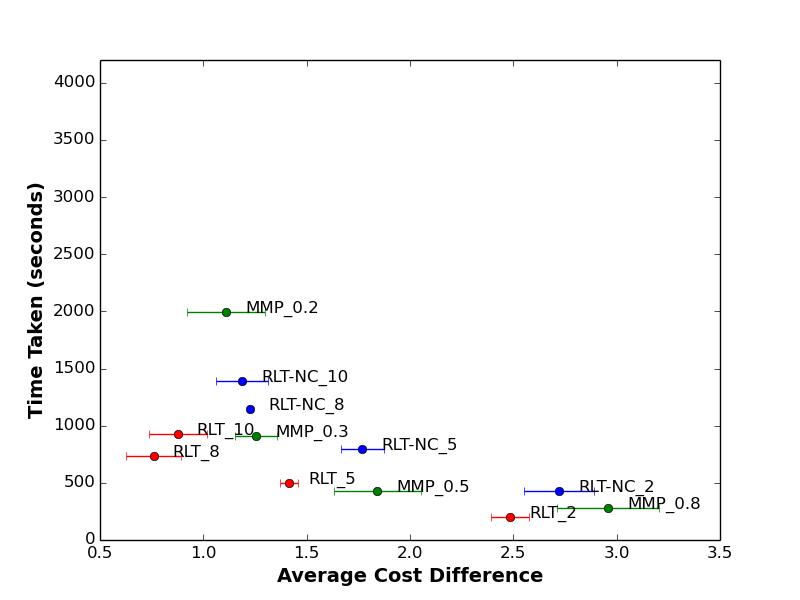
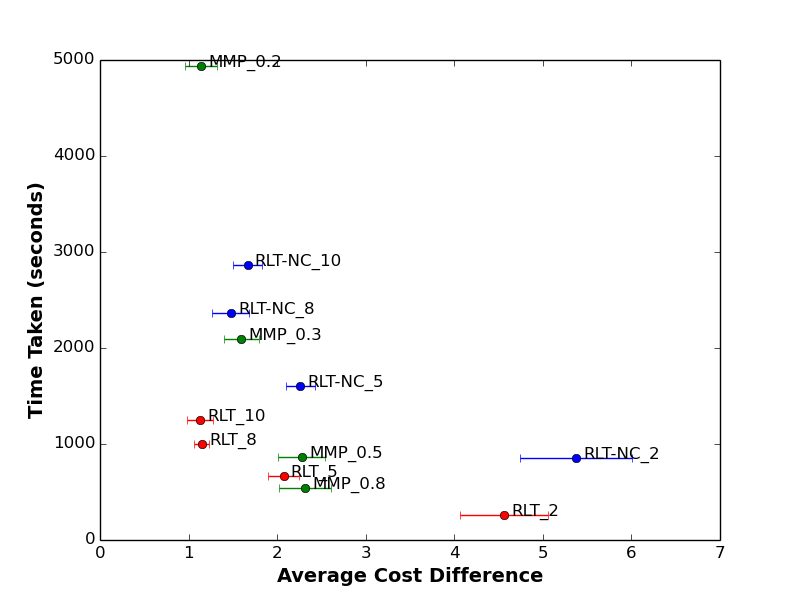
Results section and conclusion

diff --git a/IRL_RRT.tex b/IRL_RRT.tex
@@ -54,8 +54,6 @@ shimon.whiteson@cs.ox.ac.uk
 
 \maketitle
 
-\sw{Is it double blind review?}
-
 \thispagestyle{empty}
 \pagestyle{empty}
 
@@ -63,7 +61,7 @@ shimon.whiteson@cs.ox.ac.uk
 %%%%%%%%%%%%%%%%%%%%%%%%%%%%%%%%%%%%%%%%%%%%%%%%%%%%%%%%%%%%%%%%%%%%%%%%%%%%%%%%
 \begin{abstract}
 Inverse Reinforcement Learning (IRL) for path planning enables robots to learn cost functions for difficult tasks from demonstration, instead of hard-coding them. However, IRL methods face practical limitations that stem from the need to repeat costly planning procedures.
-In this paper, we propose Rapidly Exploring Learning Trees (RLT$^*$), which learns the cost functions of Rapidly Exploring Random Trees (RRT) from demonstration, thereby making inverse learning methods applicable to more complex tasks. Our approach extends Maximum Margin Planning to work with RRT$^*$ cost functions. Furthermore, we propose a caching scheme that greatly reduces the computational cost of this approach. Experimental results on simulated \sw{and real-robot} data from a social navigation scenario show that RLT$^*$ achieves better performance at lower computational cost than existing methods.  We also successfully deploy control policies learned with RLT$^*$ on a real telepresence robot.
+In this paper, we propose Rapidly Exploring Learning Trees (RLT$^*$), which learns the cost functions of Rapidly Exploring Random Trees (RRT) from demonstration, thereby making inverse learning methods applicable to more complex tasks. Our approach extends Maximum Margin Planning to work with RRT$^*$ cost functions. Furthermore, we propose a caching scheme that greatly reduces the computational cost of this approach. Experimental results on simulated and real-robot data from a social navigation scenario show that RLT$^*$ achieves better performance at lower computational cost than existing methods.  We also successfully deploy control policies learned with RLT$^*$ on a real telepresence robot.
 
 
 \end{abstract}
@@ -99,13 +97,13 @@ A big challenge in doing so is solving the forward planning problem under the cu
 
 One approach is to discretise the state-action spaces and solve the resulting Markov decision process (MDP). However, in high-dimensional tasks, fine discretisations render planning intractable and coarse discretisations yield poor performance.
 
-Some methods that use discretisation formulate the problem such that only an open-loop path (rather than a closed-loop policy) is required. Then, given deterministic dynamics, planning can be performed using A$^*$ \cite{ratliff2006maximum}, allowing realistic problems to be tackled. We take a similar approach but, by planning using RRT$^*$, we can tackle higher dimensional spaces with obstacles and motion constraints. \sw{This is confusing: paths are easier to plan so can scale better wrt dimensionality?  But still require discretisation and so not as scalable as RRT?  Needs to be made much clearer.}
+Some methods that use discretisation formulate the problem such that only an open-loop path (rather than a closed-loop policy) is required. Then, given deterministic dynamics, planning can be performed using A$^*$ \cite{ratliff2006maximum}, allowing realistic problems to be tackled. We take a similar approach but, by planning using RRT$^*$, we expand on the possibilities of the tasks that can be learned. \sw{This is confusing: paths are easier to plan so can scale better wrt dimensionality?  But still require discretisation and so not as scalable as RRT?  Needs to be made much clearer.}
 
 Another approach is to use hybrid planners. Inverse Optimal Heuristic Control \cite{ratliff2009inverse} models the long-term goals of the agent as a coarsely discretised MDP, to ensure tractability, while using supervised learning to determine the local policy of the agent at each state. Graph-Based IOC \cite{byravan2015graph} uses discrete optimal control on a coarse graph and the actual path is executed using local trajectory optimisation techniques such as CHOMP \cite{ratliff2009chomp}, which would otherwise suffer from local minima. However, these methods employ complex and domain-specific planning formulations that are not suitable for all robotics tasks. By contrast, our approach employs widely used planners, making it versatile and easy to implement. 
 
-Another more recent graph-based concept \sw{Were the hybrid planners also graph-based? Confusing!} is that of Adaptive State Graphs \cite{okallearning}, which build a controller graph before doing any learning. This controller graph is akin to \emph{options} in semi-Markov decision processes, and allows for a more flexible representation of the state-action space. However, the controller used to learn underlying cost function is different from the one used to execute the robot's behaviour. This can have adverse effects since IRL  assumes that the demonstration paths came from the same planner used during learning.  Instead of building a controller graph first and then using a different controller to optimise trajectories, RLT$^*$ builds a controller tree on the fly and uses the same planner for learning and execution.
+Another recent method is that Adaptive State Graphs \cite{okallearning}, which builds a state-action controller graph before doing any learning. This controller graph is akin to \emph{options} in semi-Markov decision processes, and allows for a more flexible representation of the state-action space. However, the controller used to learn underlying cost function is different from the one used to execute the robot's behaviour. This can have adverse effects since IRL  assumes that the demonstration paths came from the same planner used during learning.  Instead of building a controller graph first and then using a different controller to optimise trajectories, RLT$^*$ builds a controller tree on the fly and uses the same planner for learning and execution.
 
- All of the above methods require require a model of the dynamics of the system. By contrast, model-free IRL uses importance sampling to deal with high-dimensional state-action spaces with unknown dynamics \cite{boularias2011relative,kalakrishnan2013learning}. Instead of performing a full planning procedure at each iteration, model free IRL samples trajectories, usually starting from the initial conditions observed in the data. The probability of these trajectories is weighted according to the current cost function, which is then updated to make trajectories closer to the data more likely. A big challenge is to find an appropriate importance distribution at each iteration. \cite{finn2016guided} considers guiding the importance distribution by simultaneously learning a good policy under the current cost function and using it as an adaptive importance sampler. However the method uses a modified version of Linear Quadratic Regulator control to derive policies, which means that these policies are only locally optimal and are greatly affected by the presence of obstacles in the environment \jm{you mention ``obstacles'' often, but there are different types of ``obstacles'': static, mapped obstacles (part of the global cmap); static, unmapped obstacles; and dynamic obstacles; it's important to be specific about which of these you're talking about. For instance, none of these (not even RRTs) are good at dealing with dynamic obstacles}. By contrast, RRTs cope well with obstacles and are asymptotically optimal.
+ All of the above methods require require a model of the dynamics of the system. By contrast, model-free IRL uses importance sampling to deal with high-dimensional state-action spaces with unknown dynamics \cite{boularias2011relative,kalakrishnan2013learning}. Instead of performing a full planning procedure at each iteration, model free IRL samples trajectories, usually starting from the initial conditions observed in the data. The probability of these trajectories is weighted according to the current cost function, which is then updated to make trajectories closer to the data more likely. A big challenge is to find an appropriate importance distribution at each iteration. \cite{finn2016guided} considers guiding the importance distribution by simultaneously learning a good policy under the current cost function and using it as an adaptive importance sampler. However the method uses a modified version of Linear Quadratic Regulator control to derive policies, which means that these policies are only locally optimal. This means that they can produce highly suboptimal paths in or even fail in the presence of obstacles in the environment. By contrast, if obstacles are are static and mapped RRTs, have a natural way of dealing with them, while also being asymptotically optimal.
 
 
 
@@ -140,7 +138,7 @@ This cost functional is similar to the one used in optimal control and analogous
 \end{equation}
 $Z_{o,g}$ is the set of possible paths such that $s_1 = o, s_{l_\zeta} = g$.
 
-Many path planning algorithms discretise $\mathcal{S}$ and use graph search algorithms like A$^*$ to find the optimal path. Under mild assumptions, these approaches are guaranteed to find the best path on the graph, therefore solving \eqref{eq:back_plan} for a subset $\tilde{Z}_{o,g} \subset Z_{o,g}$, whose size depends on the discretisation. However, such methods scale poorly in the size of $\mathcal{S}$. Furthermore, such algorithms ignore motion constraints as they assume all nodes in the graph can be reached by its neighbours in exactly the same way. \jm{Is this true, though? The A* node expansion phase would take care of this, as long as there is some state-dependent expansion mechanism it should be fine, no?} This assumption does not hold, e.g., for non-holonomic robots.
+Many path planning algorithms discretise $\mathcal{S}$ and use graph search algorithms like A$^*$ to find the optimal path. Under mild assumptions, these approaches are guaranteed to find the best path on the graph, therefore solving \eqref{eq:back_plan} for a subset $\tilde{Z}_{o,g} \subset Z_{o,g}$, whose size depends on the discretisation. However, such methods scale poorly in the size of $\mathcal{S}$. Furthermore, such algorithms ignore motion constraints as they assume all nodes in the graph can be reached by its neighbours in exactly the same way. \jm{Is this true, though? The A* node expansion phase would take care of this, as long as there is some state-dependent expansion mechanism it should be fine, no?} This assumption does not hold, e.g., for non-holonomic robots, where the ortientation at each node places constraints on how it can be reached. In this new constrained space it is less straightforward to define actions and neighbouring nodes. 
 
 These drawbacks motivate \emph{sample-based} path planning algorithms such as RRT$^*$  \cite{karaman2011sampling}. Instead of building a graph and then searching it, RRT$^*$ builds a tree on the fly and keeps track of the current best path. The algorithm consists of two interleaved steps. 
 
@@ -231,7 +229,7 @@ The inverse problem can therefore be seen as an iterative procedure that first s
 
 	\subsection{Approximate Maximum Margin Planning \label{subsec:ammp}}
 
-Section \ref{subsec:inverse_problem}, showa how the multiple constraints of \eqref{eq:const1} can be reduced to the single constraint of \eqref{eq:const} for each demonstration. However, this reduction requires an optimal planner to perform the minimisation in \eqref{eq:const1}, which is impractical in many robot applications.  Suppose instead that, as in RRT$^*$, we have a mechanism for sampling different paths from $Z_{o,g}$ along with their respective costs and that, for a given finite time budget $T$, this path sampler samples a subset $\tilde{Z}_{o,g} \subset Z_{o,g}$,  Then we can modify \eqref{eq:const} to demand that our cost function satisfies,
+Section \ref{subsec:inverse_problem}, shows how the multiple constraints of \eqref{eq:const1} can be reduced to the single constraint of \eqref{eq:const} for each demonstration. However, this reduction requires an optimal planner to perform the minimisation in \eqref{eq:const1}, which is impractical in many robot applications.  Suppose instead that, as in RRT$^*$, we have a mechanism for sampling different paths from $Z_{o,g}$ along with their respective costs and that, for a given finite time budget $T$, this path sampler samples a subset $\tilde{Z}_{o,g} \subset Z_{o,g}$,  Then we can modify \eqref{eq:const} to demand that our cost function satisfies,
 \begin{equation}
 	C(\zeta^i_{o_i,g_i}) \leq \min_{\zeta_{o_i,g_i} \in \tilde{Z}_{o_i,g_i}} C(\zeta) \quad \forall i. \label{eq:const_rrt}
 \end{equation}
@@ -400,7 +398,7 @@ For RRT$^*$, the dependance of $\tilde{Z}_{o_i,g_i}$ on the time budget T is har
 
 \section{Experiments}
 
-In this section, we experimentally compare RLT$^*$ to the original MMP algorithm implemented using an A$^*$ planner and an ablated version of RLT$^*$ that does not use caching.
+In this section, we evaluate our contribution in 3 distinct cases. Firstly, we compare RLT$^*$ to the original MMP algorithm implemented using an A$^*$ planner and RLT-NC an ablated version of RLT$^*$ that does not use caching, in a simulated environment assuming a holonomic robot. We then assume a robot with non-holonomic kinematics and compare RLT$^*$with RLT-NC. We finally deploy RLT$^*$ on a real telepresence robot.
 	
 	Our experiments take place in the context of socially intelligent navigation. IRL has been widely used in this setting \cite{okallearning,henry2010learning,vasquez2014inverse} because it is usually infeasible to hard-code the cost functions that a planner should use in complex social situations. Having the ability to quickly and effectively learn social navigation cost functions from demonstration would be a major asset for robots that operate in crowded environments such as airports \cite{triebel2015spencer}, museums \cite{thrun1999minerva} and care centres \cite{shiarlis2015teresa}.
 	
@@ -423,15 +421,15 @@ In this section, we experimentally compare RLT$^*$ to the original MMP algorithm
 	\begin{figure}[tbh]
 %	\hspace{-5cm}
 	\centering
-      \begin{subfigure}[b]{0.42\columnwidth}
-    \includegraphics[scale = 0.3]{images/people.png}
+      \begin{subfigure}[b]{0.35\columnwidth}
+    \includegraphics[scale = 0.15]{images/no_cf.png}
     \caption{Example setting }
     \label{fig:exp_setting}
   \end{subfigure}
   \hspace{10mm}
-  \begin{subfigure}[b]{0.42\columnwidth}
+  \begin{subfigure}[b]{0.35\columnwidth}
   \hspace{4mm}
-    \includegraphics[scale = 0.3]{images/cost_f.png}
+    \includegraphics[scale = 0.15]{images/cf_1.png}
     \caption{Cost function}
     \label{fig:cost_f}
   \end{subfigure} 
@@ -471,7 +469,7 @@ In this section, we experimentally compare RLT$^*$ to the original MMP algorithm
 
 	\subsubsection{Evaluation}
 
-	To quantitatively assess the quality of our algorithms, we generate a dataset $D$ by planning near-optimal paths from an initial configurations $s_o$ to goal configurations $s_g$ under a ground-truth cost function $c_{gt}()$ derived from ground-truth weights \ks{here define the concepts of learner and expert. describe initialisation from this stage as part of the definitio of learner} $\mathbf{w}_{gt}$ and features $\mathbf{F}_{gt}$ . A fully optimal path can only be derived only asymptotically in terms of either time  for RRT$^*$, or resolution for A$^*$. In practice, however, we found that planning for 100 seconds using  RRT$^*$  achieves a path that is nearly optimal, as running longer leads to negligible changes in path cost. 
+	To quantitatively assess the quality of our algorithms, we generate a dataset $D$ by planning near-optimal paths from initial configurations $s_o$ to goal configurations $s_g$ under a ground-truth cost function $c_{gt}()$ derived from ground-truth weights $\mathbf{w}_{gt}$ and features $\mathbf{F}_{gt}$ . A fully optimal path can only be derived asymptotically in terms of either time  for RRT$^*$, or resolution for A$^*$. In practice, however, we found that planning for 100 seconds using  RRT$^*$  achieves a path that is nearly optimal, as running longer leads to negligible changes in path cost. 
 
 	The resulting ground truth dataset is extremely useful for evaluation, which is otherwise very hard in IRL \ks{cite me?}. For each path $\zeta$ generated by the learning algorithm, we know its cost under the ground-truth cost function and features is simply  $\mathbf{w}_{gt}^T\mathbf{F}_{gt}(\zeta)$. Furthermore, we can compute the cost difference between the learned path and the demonstrated path path with respect to ground truth:
 	\begin{equation}
@@ -488,13 +486,13 @@ Scenario 1 is intended to evaluate the capability of the algorithms in question 
 
 We also document the total learning time for K iterations for the algorithms under comparison.  All algorithms were implemented in Python, share similar functions, and were not optimised for speed apart from the caching scheme in RLT$^*$. Finally we perform qualitative evaluation by visually comparing the learned cost functions for each algorithm and the paths they generate against their respective ground truth
 
-	\subsubsection{Results}
+	\subsubsection{Results on a holonomic robot.}
 
-	Our dataset $D$ consists of 20 trajectories at random social social situations. We use 20\% of this data as the training dataset,  $D_{train}$ and 80 \% for $D_{test}$. After being trained on $D_{train}$, the performance of a cost function is evaluated on $D_{test}$ using \eqref{eq:obj_eval}. The process is repeated 10 times for the same dataset but with different random compositions of $D_{train}$ and $D_{test}$. 
+	Our dataset $D$ consists of 20 trajectories at random social social situations. We use 50\% of this data as the training dataset,  $D_{train}$ and 50\% for $D_{test}$. After being trained on $D_{train}$, the performance of a cost function is evaluated on $D_{test}$ using \eqref{eq:obj_eval}. The process is repeated 7 times for the same dataset but with different random compositions of $D_{train}$ and $D_{test}$. 
 	
-	As mentioned earlier, the quality of RRT$^*$ and $A^*$ plans are affected by planning time and grid resolution respectively. To perform a fair comparison of the algorithms we vary these two quantities for each algorithm and perform learning. We then plot the learning performance against the learning time. Since in both cases a lower number is better, this forms an inverted Pareto front that allows us to see which method has the best time-performance characteristics. All learning algorithms were initialised using the same cost function that only favours shortest paths. Figures \ref{fig:res_sim1} and \ref{fig:res_sim2} show the results for the two scenarios described in the evaluation section. Points denoted as MMP\_X (green) refer to MMP with X meters of grid resolution while RLT-NC\_X (blue) refers to RLT without a caching sceme for X seconds of planning time. Finally points denoted RLT\_X (red) refer to RLT with a point cache simulating an RLT-NC for X seconds of planning time. \ks{add results}
+	As mentioned earlier, the quality of RRT$^*$ and $A^*$ plans are affected by planning time and grid resolution respectively. To perform a fair comparison of the algorithms we vary these two quantities for each algorithm and perform learning. We then plot the learning performance against the learning time. Since in both cases a lower number is better, this forms an inverted Pareto front that allows us to see which method has the best time-performance characteristics. All learning algorithms were initialised using the same cost function that only favours shortest paths. Figures \ref{fig:res_sim1} and \ref{fig:res_sim2} show the results for the two scenarios described in the evaluation section. Points denoted as MMP\_X (green) refer to MMP with X meters of grid resolution while RLT-NC\_X (blue) refers to RLT without a caching sceme for X seconds of planning time. Finally points denoted RLT\_X (red) refer to RLT with a point cache simulating an RLT-NC for X seconds of planning time.
 
-	A first look at the results reveals that our methods in blue and red dominate a large portion of the pareto front, demonstrating good performance and generalisation in reasonable time. Furthermore, comparing the green and blue points we can see that RLT$^*$ can learn faster without sacrificing any of the performance. In fact looking at the standard error across validation sets we can see that this is consistently less as far as RLT$^*$ is concerned. This suggests the caching scheme introduces extra robustness and generalisation capabilities within the algorithm. Finally we notice that the MMP learning time scales exponentially with the size of the grid. This however is not solely due to the fact that the graph gets larger but also because A$^*$ search does not scale well with the complexity of the cost function itself. This is due to its reliance on an admissible heuristic that for complex cost functions is no longer tight, forcing the search to expand many more states. By contrast, the sample-based nature of RLT$^*$ makes it less susceptible to these pathologies.  \ks{Qualitative results in simulation?}
+	A first look at the results reveals that RLT$^*$ (red) dominates a large portion of the pareto front, demonstrating good performance and generalisation in reasonable time. Furthermore, comparing the red and blue points we can see that RLT$^*$ can learn faster while providing a modest but important boost in performance. This suggests the caching scheme introduces extra robustness and generalisation capabilities within the algorithm. The performance of RLT$^*$ and RLT-NC significantly degrades at very low planning times (2 seconds). This is because the AMMP procedure fails to sample good enough paths and thus compute a satisfactory gradient. Finally we notice that the MMP learning time scales exponentially with the size of the grid. This however is not solely due to the fact that the graph gets larger but also because A$^*$ search does not scale well with the complexity of the cost function itself. This is due to its reliance on an admissible heuristic that for complex cost functions is no longer tight, forcing the search to expand many more states. By contrast, the sample-based nature of RLT$^*$ makes it less susceptible to these pathologies.
 
 	\begin{figure}[tbh]
 	\centering
@@ -528,6 +526,39 @@ We also document the total learning time for K iterations for the algorithms und
   \label{fig:results_qual}
   \end{figure}
 
+  \subsubsection{Results on a non-holonomic robot}
+  As mentioned earlier, a potential advantage of RLT$^*$ is that it can efficiently handle learning in the case of motion constraints. In this paper we consider a robot planning in a three dimentional space, $(x,y,\theta)$, representing the position and orientation of the robot. The robot's motion is further subject to the following kinodynamic constraints.
+
+  \begin{align}
+  	&\dot{x} = v\times\cos(\theta),\\
+  	&\dot{y} = v\times\sin(\theta),\\
+  	&\dot{\theta} = \omega,
+  \end{align}
+  where $v,\omega$ are the linear and angular velocities respectively.
+  To meet these constraints we use the POSQ $\texttt{Steer}$ function described in \cite{palmieri2014novel}. We employ the specific steering mechanism for two reasons. Firstly, it gives a local closed loop policy between two vertices of the tree, it is thus more robust to noise and uncertainty in the motion. Secondly is has shown its capability to produce smooth paths between feasible configurations. Evaluation is done in much the same way as in the previous section, with the exception that due to the inability of MMP to handle kinodynamic constraints we only compare between RLT$^*$ and RLT-NC. In this case RLT-NC was given 100 seconds to plan, in which case about 3000 configurations were sampled, this was thus the cache size the RLT$^*$ was allowed have during learning. The results are reported in Figure \ref{fig:results_kino}. In Figure \ref{fig:res_kino1} we can see that RLT$^*$ is an order of magnitute faster than RLT-NC. The kinematic constraints are an important aspect of this speedup since they make the \texttt{Steer} and \texttt{Safe} procedures (which are cached) more expensive. Furthermore, Figure \ref{fig:res_kino2} further suggests that RLT$^*$ results in more stable learning and better performance.
+
+  	\begin{figure}[tbh]
+	\centering
+	\captionsetup[subfigure]{justification=centering}
+	\hspace{-1cm}
+      \begin{subfigure}[b]{0.42\columnwidth}
+    \includegraphics[scale=0.25]{images/pareto_front_kino.png}
+    \caption{Time taken vs final learning cost difference }
+    \label{fig:res_kino1}
+  \end{subfigure}
+     	\hspace{10mm}
+  \begin{subfigure}[b]{0.42\columnwidth}
+
+    \includegraphics[scale=0.25]{images/cost_diff_val_kino.png}
+    \caption{Learning curve for motion constrained learning}
+    \label{fig:res_kino2}
+  \end{subfigure} 
+    \caption{Learning in the presence of motion constraints for RLT$^*$ and RLT-NC. RLT$^*$ results in better and faster learning when compared to its completely stochastic counterpart. Reported results are for the validation dataset.}
+    \vspace{-2mm}
+  %\vspace{-3mm}
+  \label{fig:results_kino}
+  \end{figure}
+
 
 	\subsection{Real Robot Experiments}
 	In this section we demonstrate the real world functionality of RLT$^*$. We use data of real, human demonstrations in a social navigation scenario. Using this data we learn a cost function which we deploy back on the real robot to assess performance. 
@@ -535,7 +566,7 @@ We also document the total learning time for K iterations for the algorithms und
 	\subsubsection{Data and Setup}
 	The experiments take place in a simplified version of the social scenarios we have seen in the previous section. In this case we have two people in the scene at different positions and orientations. A human demonstrator is asked to execute paths for different initial and final conditions across the room. The task is similar to the one used in \cite{okallearning} and the purpose is to find cost functions that account for potential relationships between people depending on their orientation with respect to each other. For example if people are facing each other, they are more likely engaged in conversation or some other activity (e.g., taking a photograph) and should not be interrupted. On the other hand if they are looking away from each other and there is enough distance between them then it might be better to pass between them in order to reach the goal earlier.
 
-	We use the Optitrack \footnote{optitrack.com} motion capture system in order to accurately collect ground truth data of both people robot positions. The data is used to learn a cost function using the social feature set S1 and the rest of the features described in the previous section.
+	To collect the data for learning as well as to validate the learned cost function we use an off-the-shelf telepresence system augmented with several sensors that allow localisation and perception \footnote{www.teresaproject.eu}. We use the Optitrack \footnote{www.optitrack.com} motion capture system in order to accurately collect ground truth data of both people robot positions. The data is used to learn a cost function using the social feature set S1 and the rest of the features described in the previous section.
 	\subsubsection{Results}
 	Objective evaluation of the learning using real data is in general hard using IRL since the ground truth cost function is not given. We therefore resort to more qualitative means of comparison. 
 
@@ -575,7 +606,7 @@ We also document the total learning time for K iterations for the algorithms und
   \label{fig:results_real}
   \end{figure}
 
-	The learned cost function shown in Figure \ref{fig:real_cf} was then deployed on a real telepresence robot. \ks{TODO video and pictures of real experiments} 
+	The learned cost function shown in Figure \ref{fig:real_cf} was then deployed on a real telepresence robot. Suplementary material demonstrating the deployment can be found online \footnote{ADD LINK TO VIDEO}.
 
 
 	\begin{figure}[tbh]
@@ -671,11 +702,9 @@ We also document the total learning time for K iterations for the algorithms und
 
 \vspace{-1mm}
 \section{Discussion and Conclusion}
-In this paper, we proposed the Rapidly Exploring Learning Tree (RLT$^*$), which learns the cost functions of Rapidly Exploring Random Trees (RRT) from demonstration, thereby making inverse learning methods applicable to more complex tasks. Our approach extends the Maximum Margin Planning to work with RRT$^*$ cost functions. Furthermore, it uses a caching scheme that greatly reduces the computational cost of this approach. We have in addition performed thorough experimentation and comparison with the original MMP algorithm in simulated social navigation tasks. The results suggest that RLT$^*$ achieves better performance at lower computational cost even in cases where there is a discrepancy in the features used between the demonstrations and the learning algorithm. Finally, we used RLT$^*$ to effectively learn cost functions using data of real demonstrations and social situations further demonstrating its applicability in the real world.
+In this paper, we proposed the Rapidly Exploring Learning Tree (RLT$^*$), which learns the cost functions of Rapidly Exploring Random Trees (RRT) from demonstration, thereby making inverse learning methods applicable to more complex tasks. Our approach extends the Maximum Margin Planning to work with RRT$^*$ cost functions. Furthermore, it uses a caching scheme that greatly reduces the computational cost and improves the performance of this approach. We have demonstrated thorough experimentation and comparison with the original MMP algorithm in simulated social navigation tasks. The results suggest that RLT$^*$ achieves better performance at lower computational cost even in cases where there is a discrepancy in the features used between the demonstrations and the learning algorithm. Furthermore, we have shown that our algorithm can handle higher dimentional configuration spaces with motion constraints. Finally, we used RLT$^*$ to effectively learn cost functions using data of real demonstrations and social situations further demonstrating its applicability in the real world.
+An important point to discuss is the static nature of our experiments. Since our methods do not have a model of how features will evolve over time it is not possible to take peoples movement into account directly into the planning process. For complex social path planning applications, it seems that the method of choice cite  is to replan every few timesteps \cite{vasquez2014inverse} \cite{henry2010learning}. Replanning in RRT$^*$ has been succesfully proposed and can be used in this case \cite{otte2015rrtx}. We reserve the exploration of such topics to future work.
 
-Because this algorithm can be seen as an extension of MMP, in our experimental comparison used A$^*$ as a baseline. However, RLT$^*$ is also well suited to situations where deterministic planners naturally fail, e.g., a manipulator with many degrees of freedom. Furthermore, one may leverage the capability of RRT related algorithms to take into account kinodynamic constraints, which is something that fixed graph based planners cannot do. 
-
-Another important point to discuss is the static nature of our experiments. Since our methods do not have a model of how features will evolve over time it is not possible to take peoples movement into account directly into the planning process. For complex social path planning applications, it seems that the method of choice cite  is to replan every few timesteps \cite{vasquez2014inverse} \cite{henry2010learning}. Replanning in RRT$^*$ has been succesfully proposed and can be used in this case \cite{otte2015rrtx} \ks{should I at least use this in the video or is it beyond the point? I could say that we are learning a simple cost function and then using it complex situations}. We reserve the exploration of such topics to future work. 
 \bibliographystyle{IEEEtran}
 \bibliography{references}
 
